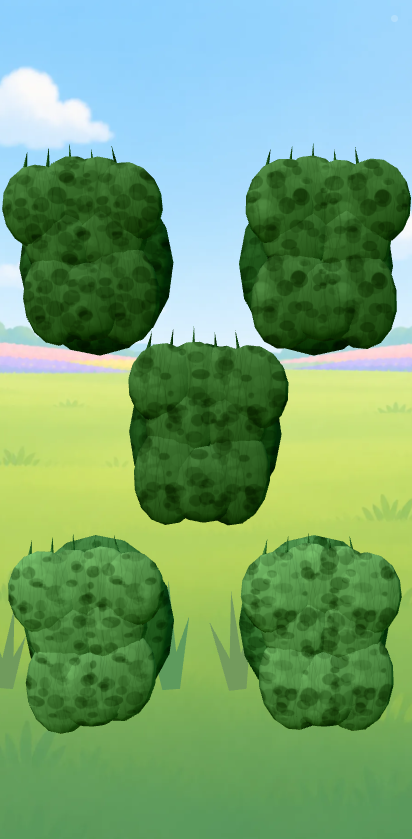
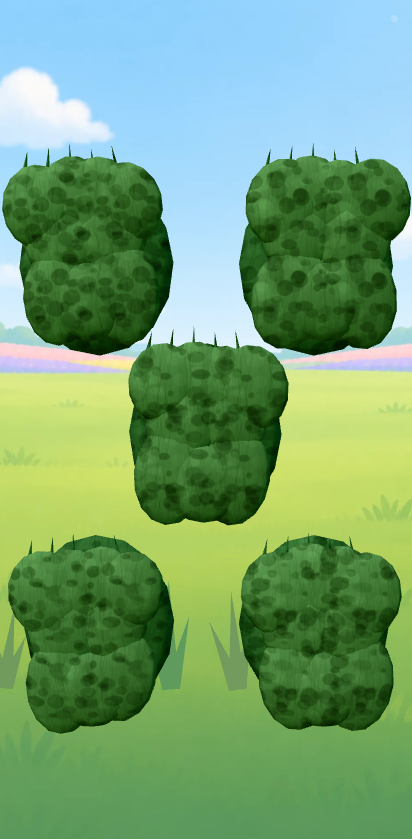
サイクル16: 模様を材質ごとに描き分け、岩の内側の板を楕円にする
判定で「全場面・全隠れ場所に同じ楕円の斑点レイヤーが乗り、
どれも汚れた板に見える」「布のはずが等間隔の硬いリブでトタン板」
「すいめんが濃い青の板」「岩が迷彩柄を印刷した板」と指摘されたところ。

- すいめん: 斜めに差す光の筋 ＋ うねる波。横方向にも明暗が出る
  （実測で幅 180px のあいだ 2/255 しか動いていなかった）
- カーテン・ふとん: 襞の谷を柔らかく、幅を襞ごとに変える
- うえきばち: 斑点をやめて、輪郭のぼやけた焼きむらの帯に
- いわ: こぶ大の斑点をやめて細かい粒に。板に平面投影しているので
  模様は球の継ぎ目をまたいで直進する。粒が大きいと投影のゆがみが見える
- 岩の内側の板を四角 → 楕円。球より奥にあるので、はみ出した角が
  そのまま空を背に長方形として見えていた

実測: 基準外 20 → 19 件、悪化 10 → 9 件。単体254件・型検査とも通過。

Claude-Session: https://claude.ai/code/session_01CKSSptub2R8nw4GNxWzQ6d

diff --git a/src/peekaboo/SpotTextures.ts b/src/peekaboo/SpotTextures.ts
@@ -203,10 +203,15 @@ const fabric: Painter = (ctx, rng) => {
   for (let i = 0; i < folds; i++) {
     const x = (i * SIZE) / folds;
     const w = SIZE / folds;
+    // **山と谷を等間隔の硬い縞にしないこと。**
+    // 判定で「布のはずが等間隔の硬いリブになり、トタン板に見える」と
+    // 言われた。谷を柔らかく、幅も襞ごとに変える
     const g = ctx.createLinearGradient(x, 0, x + w, 0);
-    g.addColorStop(0, 'rgba(0,0,0,0.30)');
-    g.addColorStop(0.45, 'rgba(255,255,255,0.34)');
-    g.addColorStop(1, 'rgba(0,0,0,0.30)');
+    g.addColorStop(0, 'rgba(0,0,0,0.20)');
+    g.addColorStop(0.18, 'rgba(0,0,0,0.06)');
+    g.addColorStop(0.44 + rng() * 0.14, 'rgba(255,255,255,0.30)');
+    g.addColorStop(0.82, 'rgba(0,0,0,0.06)');
+    g.addColorStop(1, 'rgba(0,0,0,0.20)');
     ctx.fillStyle = g;
     for (const dx of [-SIZE, 0, SIZE]) ctx.fillRect(x + dx, 0, w, SIZE);
   }
@@ -223,14 +228,18 @@ const fabric: Painter = (ctx, rng) => {
 
 /** 石。まだらと、ひび */
 const stone: Painter = (ctx, rng) => {
-  for (let i = 0; i < 40; i++) {
+  // **こぶ大の斑点にしないこと。** 板に平面投影しているので、模様は
+  // 球の継ぎ目をまたいで直進する。大きい斑点だと
+  // 「迷彩柄を印刷した板」に見える（判定の指摘）。細かい粒にすると
+  // 石の目に見えて、投影のゆがみも目立たない
+  for (let i = 0; i < 46; i++) {
     const dark = rng() < 0.5;
     blob(
       ctx,
       rng() * SIZE,
       rng() * SIZE,
-      12 + rng() * 34,
-      10 + rng() * 28,
+      5 + rng() * 14,
+      4 + rng() * 12,
       dark ? `rgba(0,0,0,${(0.06 + rng() * 0.14).toFixed(3)})` : `rgba(255,255,255,${(0.06 + rng() * 0.16).toFixed(3)})`
     );
   }
@@ -275,16 +284,46 @@ const foliage: Painter = (ctx, rng) => {
 
 /** 水面。横に流れる波 */
 const water: Painter = (ctx, rng) => {
-  for (let i = 0; i < 34; i++) {
-    const y = rng() * SIZE;
-    const h = 4 + rng() * 16;
-    const g = ctx.createLinearGradient(0, y, 0, y + h);
-    const light = rng() < 0.5;
+  // **横に流れる波だけでは板のまま。**
+  // 判定の実測: 幅 180px のあいだ平均 rgb が 2/255 しか動かず
+  // 「濃い青の板」に見えていた。斜めに差す光の筋を入れて、
+  // 横方向にも明暗を作る
+  for (let i = 0; i < 7; i++) {
+    const x = rng() * SIZE;
+    const w = 14 + rng() * 30;
+    const g = ctx.createLinearGradient(x, 0, x + w, 0);
     g.addColorStop(0, 'rgba(255,255,255,0)');
-    g.addColorStop(0.5, light ? 'rgba(255,255,255,0.40)' : 'rgba(0,0,0,0.30)');
+    g.addColorStop(0.5, `rgba(255,255,255,${(0.22 + rng() * 0.22).toFixed(3)})`);
     g.addColorStop(1, 'rgba(255,255,255,0)');
     ctx.fillStyle = g;
-    for (const dy of [-SIZE, 0, SIZE]) ctx.fillRect(0, y + dy, SIZE, h);
+    for (const dx of [-SIZE, 0, SIZE]) {
+      ctx.save();
+      ctx.translate(dx, 0);
+      ctx.transform(1, 0, -0.22, 1, 0, 0);
+      ctx.fillRect(x - 40, -SIZE, w, SIZE * 3);
+      ctx.restore();
+    }
+  }
+  // 波。うねらせる（まっすぐな帯は「縞の印刷」に見える）
+  for (let i = 0; i < 30; i++) {
+    const y = rng() * SIZE;
+    const h = 3 + rng() * 10;
+    const light = rng() < 0.5;
+    ctx.strokeStyle = light
+      ? `rgba(255,255,255,${(0.16 + rng() * 0.2).toFixed(3)})`
+      : `rgba(0,0,0,${(0.12 + rng() * 0.16).toFixed(3)})`;
+    ctx.lineWidth = h;
+    const amp = 3 + rng() * 7;
+    const phase = rng() * Math.PI * 2;
+    for (const dy of [-SIZE, 0, SIZE]) {
+      ctx.beginPath();
+      for (let x = 0; x <= SIZE; x += 8) {
+        const py = y + dy + Math.sin(phase + (x / SIZE) * Math.PI * 2) * amp;
+        if (x === 0) ctx.moveTo(x, py);
+        else ctx.lineTo(x, py);
+      }
+      ctx.stroke();
+    }
   }
 };
 
@@ -297,8 +336,18 @@ const clay: Painter = (ctx, rng) => {
     ctx.fillStyle = 'rgba(255,255,255,0.14)';
     for (const dy of [-SIZE, 0, SIZE]) ctx.fillRect(0, y + dy + 2.5, SIZE, 2);
   }
-  for (let i = 0; i < 26; i++) {
-    blob(ctx, rng() * SIZE, rng() * SIZE, 14 + rng() * 30, 10 + rng() * 20, `rgba(0,0,0,${(0.04 + rng() * 0.07).toFixed(3)})`);
+  // **斑点を置かない**（2026-09-07）。石・葉・殻と同じ楕円の斑点が
+  // 全部の隠れ場所に乗って「どれも同じ汚れた板」に見えると判定で言われた。
+  // 素焼きは焼きむらなので、輪郭のぼやけた縦の帯にする
+  for (let i = 0; i < 9; i++) {
+    const x = rng() * SIZE;
+    const w = 20 + rng() * 46;
+    const g = ctx.createLinearGradient(x, 0, x + w, 0);
+    g.addColorStop(0, 'rgba(0,0,0,0)');
+    g.addColorStop(0.5, `rgba(0,0,0,${(0.05 + rng() * 0.06).toFixed(3)})`);
+    g.addColorStop(1, 'rgba(0,0,0,0)');
+    ctx.fillStyle = g;
+    for (const dx of [-SIZE, 0, SIZE]) ctx.fillRect(x + dx, 0, w, SIZE);
   }
 };
 

diff --git a/src/peekaboo/SpotShapes.ts b/src/peekaboo/SpotShapes.ts
@@ -829,16 +829,14 @@ function createRock(p: Palette, spotY: number): SpotShape {
     // 局所 x = ±0.78 まで覆える。
     // **高さは詰めないこと。** H×0.95 にしたら、絵を貼った うみ の いわ で
     // 左右の縁の 5点（15×15 の格子）から体が覗いた（実測）
-    const slab = plate(
-      `rock.slab.${side < 0 ? 'l' : 'r'}`,
-      W * 0.78,
-      H * 1.1,
-      0.12,
-      stone,
-      -side * 0.16,
-      -H * 0.26,
-      FRONT_Z - 0.05
-    );
+    // **四角い板にしないこと**（2026-09-07）。球より奥（z=0.17）にあるので、
+    // はみ出した角がそのまま空を背に長方形として見える。
+    // 楕円にすると、丸い塊の裏に収まる（塞ぐ場所は中央なので、
+    // 角を落としても隙間はできない ——  遮蔽のテストが見張っている）
+    const slab = new THREE.Mesh(new THREE.CircleGeometry(0.5, 28), stone);
+    slab.name = `rock.slab.${side < 0 ? 'l' : 'r'}`;
+    slab.scale.set(W * 0.78, H * 1.1, 1);
+    slab.position.set(-side * 0.16, -H * 0.26, FRONT_Z - 0.05);
     half.add(slab);
 
     half.position.x = (side * W) / 4 - side * 0.15;

diff --git a/docs/visual-log.md b/docs/visual-log.md
@@ -35,6 +35,8 @@
 | 14 | 場面の光の色を寄せる強さ 0.62 → 0.38 | 19 | 11 | 採用 | 明度が背景に近づいて輪郭が消えていたぶんを戻す |
 | 15 | 背景の絵の明るさを読んで隠れ場所の値を離す | 21 | 14 | **棄却** | 比べていたのが**素の色**（albedo）で、画面に出る明るさ（光を掛けたあと）ではなかった。比較の相手が違うので効かない |
 
+| 16 | 模様を材質ごとに描き分ける／岩の内側の板を楕円に | 19 | 9 | 採用 | すいめんに斜めの光の筋とうねる波（「濃い青の板」だった）／布の襞を柔らかく（トタン板に見えていた）／素焼きの斑点をやめて焼きむらに／石の粒を細かく（迷彩柄に見えていた）／岩の板を楕円に（空を背に長方形が見えていた）|
+
 ## 保留（5回試して動かなかった）
 
 **V1（輪郭の明度差 p10）と V6（消える輪郭の割合）の6箇所** —
